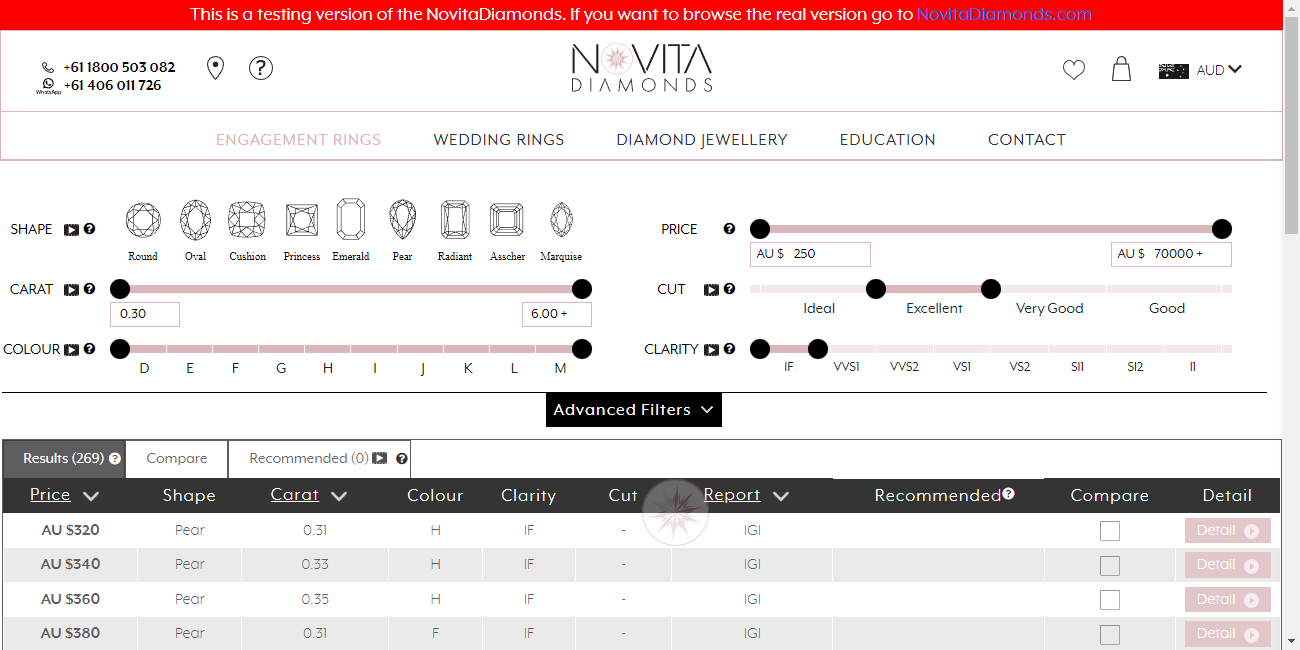
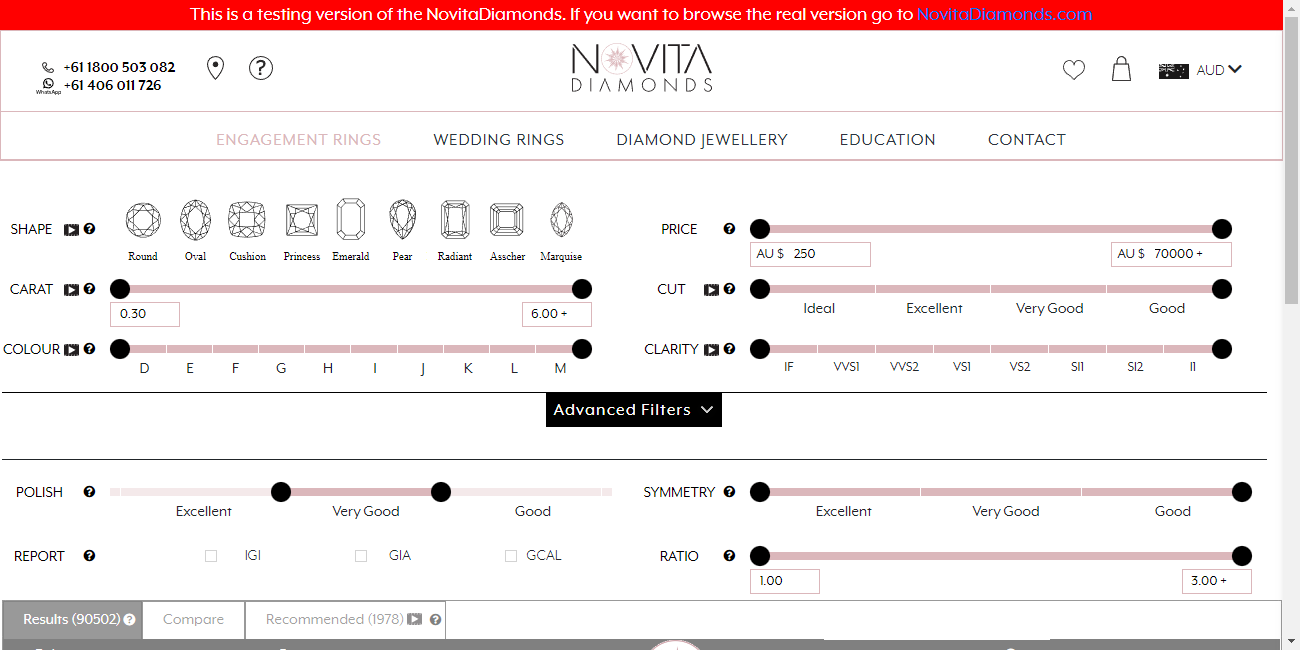
buy loose diamond end

diff --git a/Test-BuyLooseDiamond.js b/Test-BuyLooseDiamond.js
@@ -36,6 +36,16 @@ Scenario('Buy a loose diamond', async ({ I }) => {
             "SI2" : [320, -500],
             "I1" : [380, 0]
         },
+        "polish" : {
+            "Excellent" : [0, -500],
+            "Very Good" : [150, -500],
+            "Good" : [250, -500]
+        },
+        "symmetry" : {
+            "Excellent" : [0, -500],
+            "Very Good" : [150, -500],
+            "Good" : [250, -500]
+        },
         "reports" : ["IGI", "GIA", "GCAL"],
         "ratioFrom" : 1.26,
         "ratioTo" : 2.00
@@ -123,7 +133,6 @@ Scenario('Buy a loose diamond', async ({ I }) => {
         waitResponseAndtext();
         const cut = await I.grabTextFromAll('tbody tr td:nth-child(6)');
         for (const elem of cut) {
-            console.log(elem);
             if(option === 'ID/EX') {
                 if(elem !== "Excellent" && elem !== 'ID/EX' && elem !== '-') {
                     console.log('Error in the values obtained from the Cut filter');
@@ -148,9 +157,10 @@ Scenario('Buy a loose diamond', async ({ I }) => {
         }
     };
     // Check the Polish filter
-    async function checkPolish() {
-        I.dragSlider("#advanced_filters_content .diamond_filter_polish_content .from", 150);
-        I.dragSlider("#advanced_filters_content .diamond_filter_polish_content .to", -150);
+    function checkPolish(option) {
+        I.dragSlider("#advanced_filters_content .diamond_filter_polish_content .from", params.polish[option][0]);
+        I.dragSlider("#advanced_filters_content .diamond_filter_polish_content .to", params.polish[option][1]);
+        waitResponseAndtext();
     };
     // Check the Report filter
     async function checkReport(report) {
@@ -163,10 +173,10 @@ Scenario('Buy a loose diamond', async ({ I }) => {
         }
     };
     // Check the Symmetry filter
-    function checkSymmetry() {
-        I.wait(1);
-        I.dragSlider("#advanced_filters_content .diamond_filter_symmetry_content .from", 150);
-        I.dragSlider("#advanced_filters_content .diamond_filter_symmetry_content .to", -150);
+    function checkSymmetry(option) {
+        I.dragSlider("#advanced_filters_content .diamond_filter_symmetry_content .from", params.symmetry[option][0]);
+        I.dragSlider("#advanced_filters_content .diamond_filter_symmetry_content .to", params.symmetry[option][1]);
+        waitResponseAndtext();
     };
     // Check the Ratio filter 
     function checkRatio() {
@@ -175,6 +185,7 @@ Scenario('Buy a loose diamond', async ({ I }) => {
         I.pressKey('Enter');
         I.fillField('#to_ratio_value_input', 2);
         I.pressKey('Enter');
+        waitResponseAndtext();
     };
     // Check the compare option
     function compareDiamonds() {
@@ -186,6 +197,7 @@ Scenario('Buy a loose diamond', async ({ I }) => {
     async function checkVideo() {
         // return await I.grabCssPropertyFrom('#diamond_detail_section .diamond_detail_tabs .video_tab', 'display');
         I.click('#diamond_detail_section .diamond_detail_tabs .video_tab');
+        I.waitForText('Actual video of the diamond');
         I.see('Actual video of the diamond');
     };
     // SORT TABLE FOR PRICE
@@ -327,87 +339,108 @@ Scenario('Buy a loose diamond', async ({ I }) => {
     // CHECKING ADVANCED FILTERS
     //------------------------------------------------------------------------------
     I.say('CHECKING ADVANCED FILTERS');
-    checkPolish();
-    pause();
-    checkSymmetry();
+    I.wait(2);
+    for (const elem of Object.keys(params.polish)) {
+        checkPolish(elem);
+        I.dragSlider("#advanced_filters_content .diamond_filter_polish_content .from", -500);
+        I.dragSlider("#advanced_filters_content .diamond_filter_polish_content .to", 500);
+    }
+    for (const elem of Object.keys(params.symmetry)) {
+        checkSymmetry(elem);
+        I.dragSlider("#advanced_filters_content .diamond_filter_symmetry_content .from", -500);
+        I.dragSlider("#advanced_filters_content .diamond_filter_symmetry_content .to", 500);
+    }
     for (let i = 0; i < params.reports.length; i++) {
         I.click(params.reports[i], `#advanced_filters_content .diamond_filter_certificate_content ul li:nth-child(${i+1}) label`);
+        waitResponseAndtext();
         checkReport(params.reports[i]);
         I.click(params.reports[i], `#advanced_filters_content .diamond_filter_certificate_content ul li:nth-child(${i+1}) label`);
     };
     checkRatio();
-    pause();
+    I.fillField('#from_ratio_value_input', 1);
+    I.pressKey('Enter');
+    I.fillField('#to_ratio_value_input', 2);
+    I.pressKey('Enter');
+    waitResponseAndtext();
     
-
-    // RESET FILTERS
-    //------------------------------------------------------------------------------
-    // I.say('RESET FILTERS');
-    // I.click('//*[@id="search_form"]/div[5]/a[2]');
 
     // SORT RESULTS
     //------------------------------------------------------------------------------
-    // I.say('SORT RESULTS');
-    // I.click('#price_table_header_img');
-    // sortByPrice('higher');
-    // I.click('#price_table_header_img');
-    // sortByPrice('smaller');
-    // I.click('#carat_table_header');
-    // sortByCarat('higher');
-    // I.click('#carat_table_header');
-    // sortByCarat('smaller');
-    // I.click('#report_table_header');
-    // sortByReport('higher');
-    // I.click('#report_table_header');
-    // sortByReport('smaller');
+    I.say('SORT RESULTS');
+    I.click('#price_table_header_img');
+    waitResponseAndtext();
+    sortByPrice('higher');
+    I.click('#price_table_header_img');
+    waitResponseAndtext();
+    sortByPrice('smaller');
+    I.click('#carat_table_header');
+    waitResponseAndtext();
+    sortByCarat('higher');
+    I.click('#carat_table_header');
+    waitResponseAndtext();
+    sortByCarat('smaller');
+    I.click('#report_table_header');
+    waitResponseAndtext();
+    sortByReport('higher');
+    I.click('#report_table_header');
+    waitResponseAndtext();
+    sortByReport('smaller');
+    waitResponseAndtext();
 
     // OPTION COMPARE DIAMONDS
-    // I.wait(3);
-    // compareDiamonds();
+    I.say('OPTION COMPARE DIAMONDS');
+    compareDiamonds();    
     
-    // RESET FILTERS
-    //------------------------------------------------------------------------------
-    // I.say('RESET FILTERS');
-    // I.click('//*[@id="search_form"]/div[5]/a[2]');
     // Select Results options form the table
-    // I.click('#to_diamond_list_from_compare_diamonds');
+    I.click('#to_diamond_list_from_compare_diamonds');
 
     // Select one diamond (Click on detail)
-    I.say('SELECT ONE DIAMOND')
+    I.say('SELECT ONE DIAMOND');
     const video = await selectDiamond();
+    I.wait(1);
     I.click(`//*[@id="body_table_results"]/tr[${video}]/td[10]/a/div`);
-    I.see('CHOOSE THIS DIAMOND');
+    I.seeInCurrentUrl('/buy-loose-diamond-start-buying');
+
+    I.say('CHECKING BACK BUTTON');
+    I.click('#diamond_detail_section .to_diamond_list_from_diamond_detail');
+    I.click(`//*[@id="body_table_results"]/tr[${video}]/td[10]/a/div`);
+    I.seeInCurrentUrl('/buy-loose-diamond-start-buying');
 
     // Check if diamond has Video option
     checkVideo();
     // Check the Certificate option
     I.click('#diamond_detail_section .diamond_detail_tabs .certificate_tab');
+    I.wait(2);
     I.switchToNextTab();
     checkURLcertificate();
     I.closeCurrentTab();
-    I.seeInCurrentUrl('/engagement-ring/create/');
+    I.seeInCurrentUrl('/buy-loose-diamond-start-buying');
     // Image
     I.click('#tab_diamond_image');
     // IGI Certified
     I.click('#diamond_detail_section .diamond_detail_content_features .er_details_column_one a');
+    I.wait(2);
     I.switchToNextTab();
     checkURLcertificate();
     I.closeCurrentTab();
-    I.seeInCurrentUrl('/engagement-ring/create/');
+    I.seeInCurrentUrl('/buy-loose-diamond-start-buying');
 
     // 20% Deposit Available
     I.click('20% Deposit Available');
+    I.wait(2);
     I.switchToNextTab();
     I.seeInCurrentUrl('/deposit');
     I.closeCurrentTab();
-    I.seeInCurrentUrl('/engagement-ring/create/');
+    I.seeInCurrentUrl('/buy-loose-diamond-start-buying');
     
     // TO CHOOSE 'ADD LOOSE DIAMOND TO CART' OPTION
     I.say('TO CHOOSE "ADD LOOSE DIAMOND TO CART" OPTION');
     I.click('#add_loose_diamond_to_cart_submit');
-    I.see('SHOPPING CART');
+    I.waitForText('SHOPPING CART', 10);
 
     I.checkOption('#loose_diamond_option_false');
     I.checkOption('#loose_diamond_option_true');
+    I.wait(1);
     I.fillField('#cart .custom-control p .name-input', 'Name member');
     I.selectOption('#select_ring_size', '3/4');
 
@@ -419,7 +452,7 @@ Scenario('Buy a loose diamond', async ({ I }) => {
     I.say('CLICK IN CHECKOUT');
     I.click('#cart table tbody .order_summary_checkout_button a');
     I.wait(2);
-    I.seeInCurrentUrl('/cart/shipping-information');
+    I.waitForText('WHERE DO YOU WANT THESE ITEMS SENT?', 10, 'h2');
 
     I.say('SHIP TO MY ADDRESS FORM');
     I.fillField('#shipping_billing_information_form_shippingFirstName', 'FirstName');
@@ -447,13 +480,11 @@ Scenario('Buy a loose diamond', async ({ I }) => {
     I.fillField('#shipping_billing_information_form_billingPostcode', 'AA9A9AA');
     I.fillField('#shipping_billing_information_form_billingPhone', '123456');
     I.click('#cart_shipping_content .last_row .right_submit input');
-    I.seeInCurrentUrl('/cart/payment-information');
-
+    I.waitForText('PAYMENT METHOD', 10, 'h2');
+    I.click('#checkbox_bank_wire_description');
+    I.say('PLEASE, ACTIVATE THE CAPTCHA THEN TYPE "exit" IN THE CONSOLE AND PRESS ENTER TO CONTINUE');
     pause();
-
-    // I.click('#checkbox_bank_wire_description');
-    // I.say('ACTIVATED THE CAPTCHA.');
-    // I.click('#bank_wire_submit');
-    // I.seeInCurrentUrl('/cart/review');
-    // I.see('Your order is confirmed!');
+    I.click('#bank_wire_submit')
+    I.waitForText('Your order is confirmed!', 10);
+    I.see('Your order is confirmed!');
 });

diff --git a/Test-Playwright.js b/Test-Playwright.js
@@ -2,19 +2,23 @@ const Helper = require('@codeceptjs/helper');
 
 class TestPlaywright extends Helper {
 
-  async example() {
+  async getResponseFromApi(filter, option) {
+
     const { browserContext } = this.helpers.Playwright;
-    // console.log(browserContext.newPage());
-    // const page = await browserContext.newPage();
-    // await page.goto('https://novitadiamonds.com/');
-    
-    
+
     await browserContext.route('**/api/product/diamonds', async route => {
       const response = await browserContext.request.fetch(route.request());
-      let results = await response.json();
-      console.log(results.response.items[0]);
-      route.abort();
+      const results = await response.json();
+      if(results.response.items[0][filter] === option) {
+        console.log(results.response.items[0][filter]);
+        console.log('Soy igual');
+      }else {
+        console.log(results.response.items[0][filter]);
+        console.log('No soy igual');
+      }
+      
     });
+
   };
 
 }

diff --git a/codecept.conf.js b/codecept.conf.js
@@ -12,9 +12,9 @@ exports.config = {
   output: './output',
   helpers: {
     Playwright: {
-      url: 'https://novitadiamonds.com/',
+      // url: 'https://novitadiamonds.com/',
       // url: 'http://novitadiamonds.localhost',
-      // url: 'https://manmadediamonds.com.au/',
+      url: 'https://manmadediamonds.com.au/',
       show: true,
       browser: 'chromium',
       windowSize: "1300x650"
